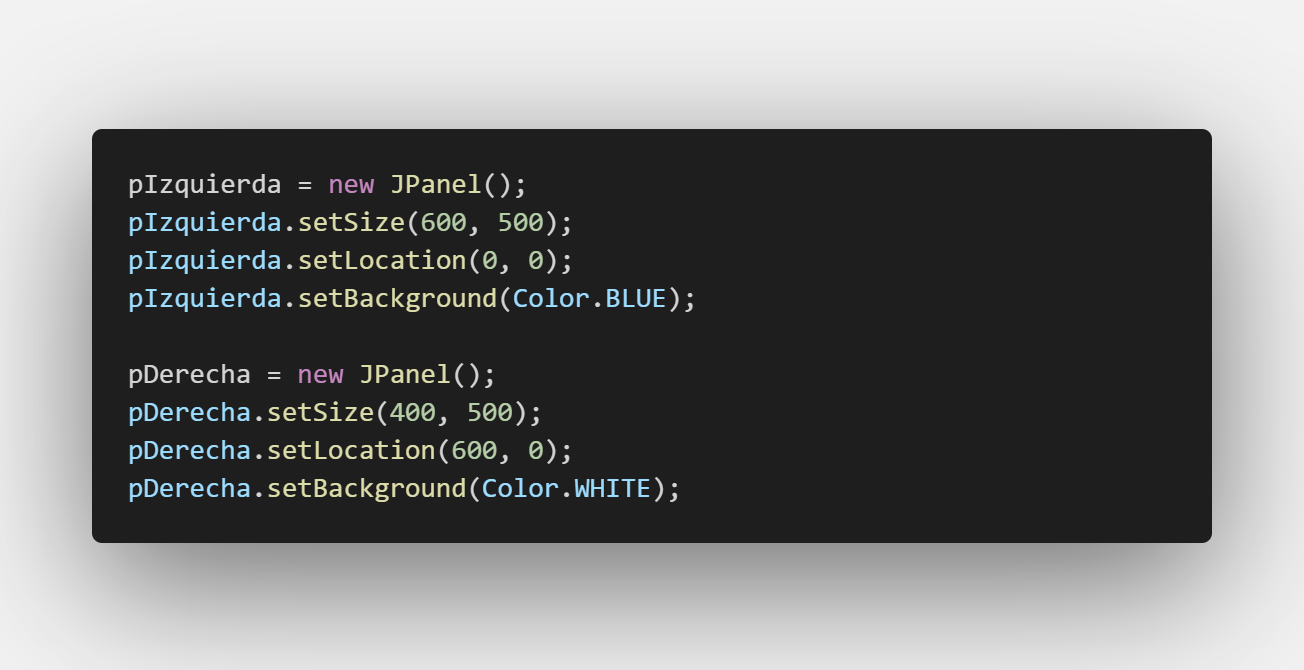
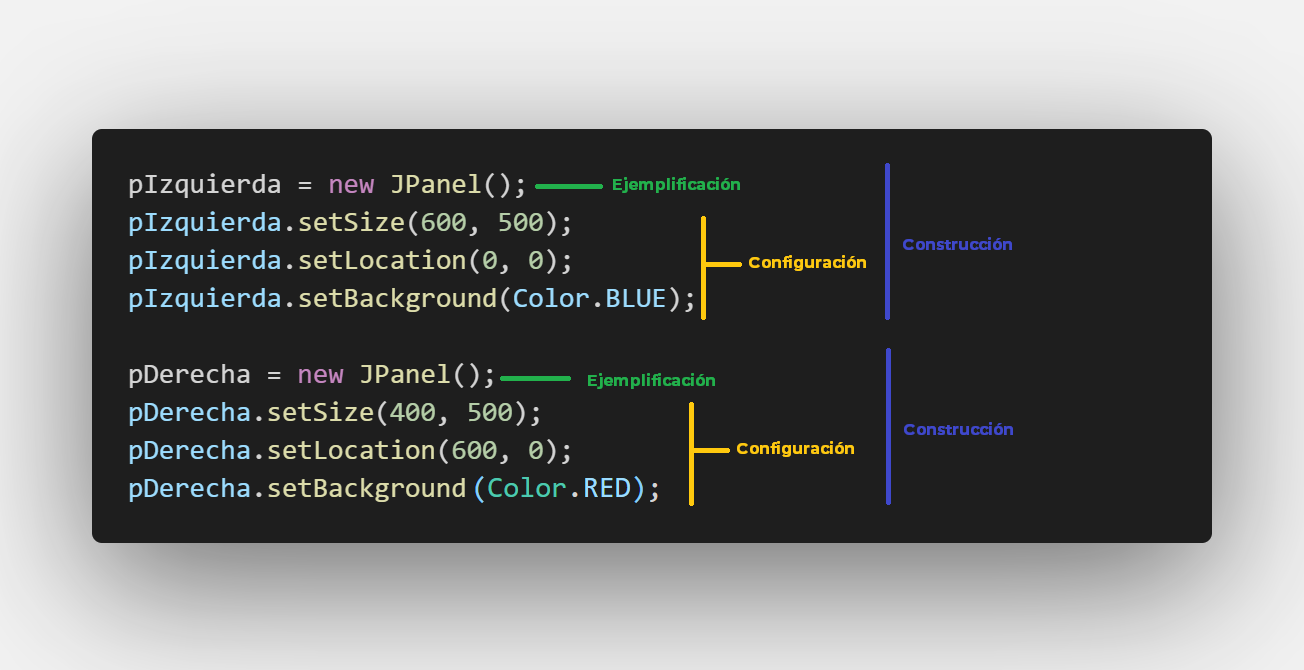
Correccion imagenes y errores en ReadMe

diff --git a/README.md b/README.md
@@ -17,6 +17,14 @@ Curso propuesto por el grupo de trabajo Semana de Ingenio y Diseño (**SID**) de
 
 # Etapas de Creación de un Objeto Gráfico
 
+Las etapas de la creación de objetos gráficos son 3 principales, sin embargo la segunda se compone a su vez de dos etapas:
+
+* **Declaración**
+* **Construcción**
+  * **Ejemplificación**
+  * **Configuración**
+* **Adición / Agregación**
+
 ## **Declaración**
 
 La declaración de un objeto gráfico consiste en indicarle al sistema que la clase donde se esta trabajando tendrá un atributo de algún tipo de estos objetos. Esta declaración tiene 3 partes, estas son:
